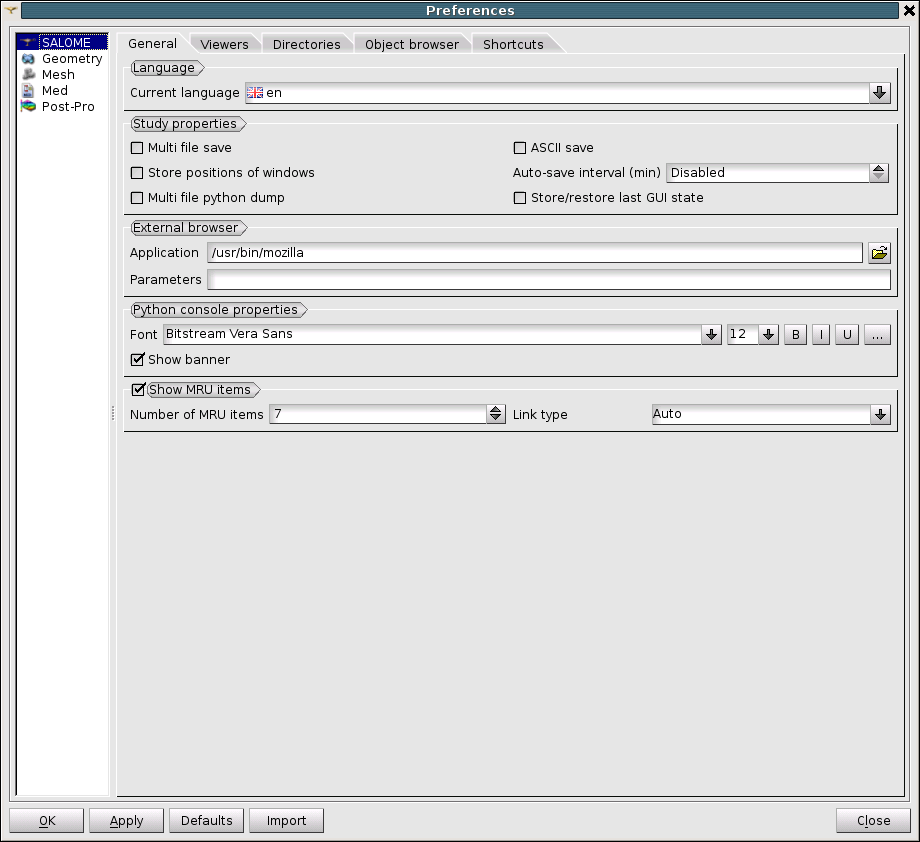
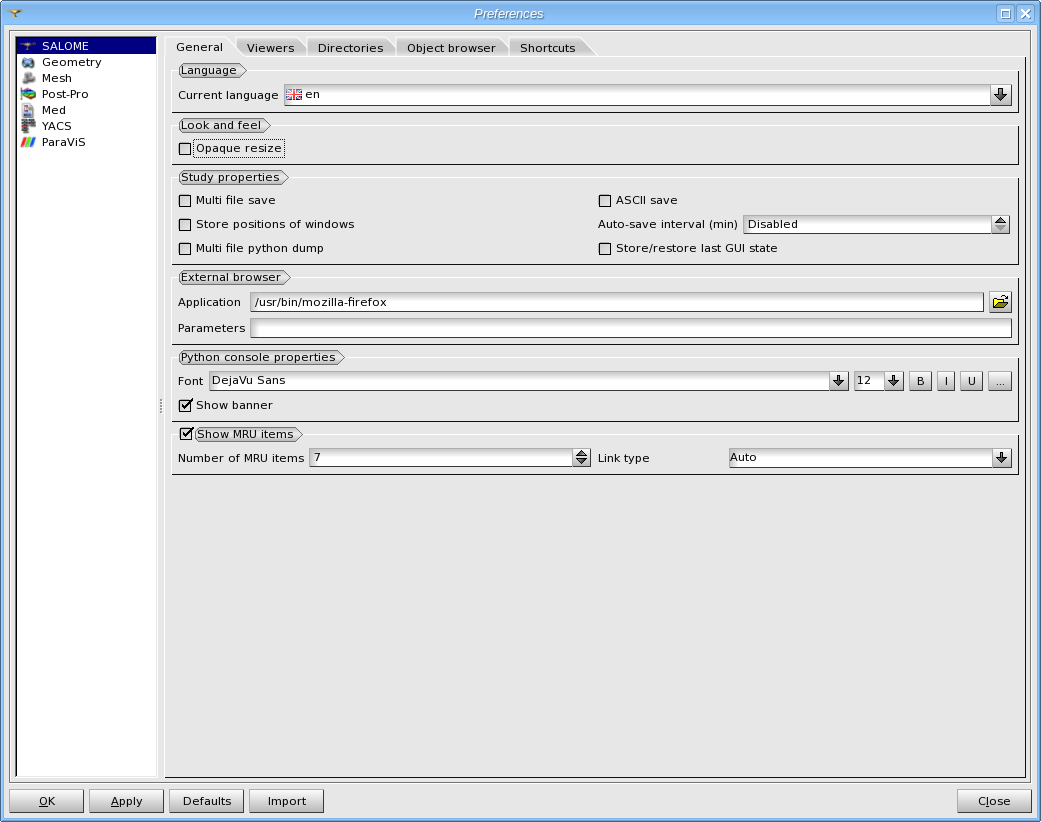
0021219: [CEA 463] Add a preference to setOpaqueResize

Changed region(s): [[0.0, 0.0, 1.0, 1.0]]

diff --git a/src/LightApp/resources/LightApp_msg_en.ts b/src/LightApp/resources/LightApp_msg_en.ts
@@ -508,7 +508,7 @@ The changes will be applied on the next application session.</translation>
     </message>
     <message>
         <source>PREF_GROUP_LOOK_AND_FEEL</source>
-        <translation>Look &amp; feel</translation>
+        <translation>Look and feel</translation>
     </message>
     <message>
         <source>PREF_OPAQUE_RESIZE</source>
